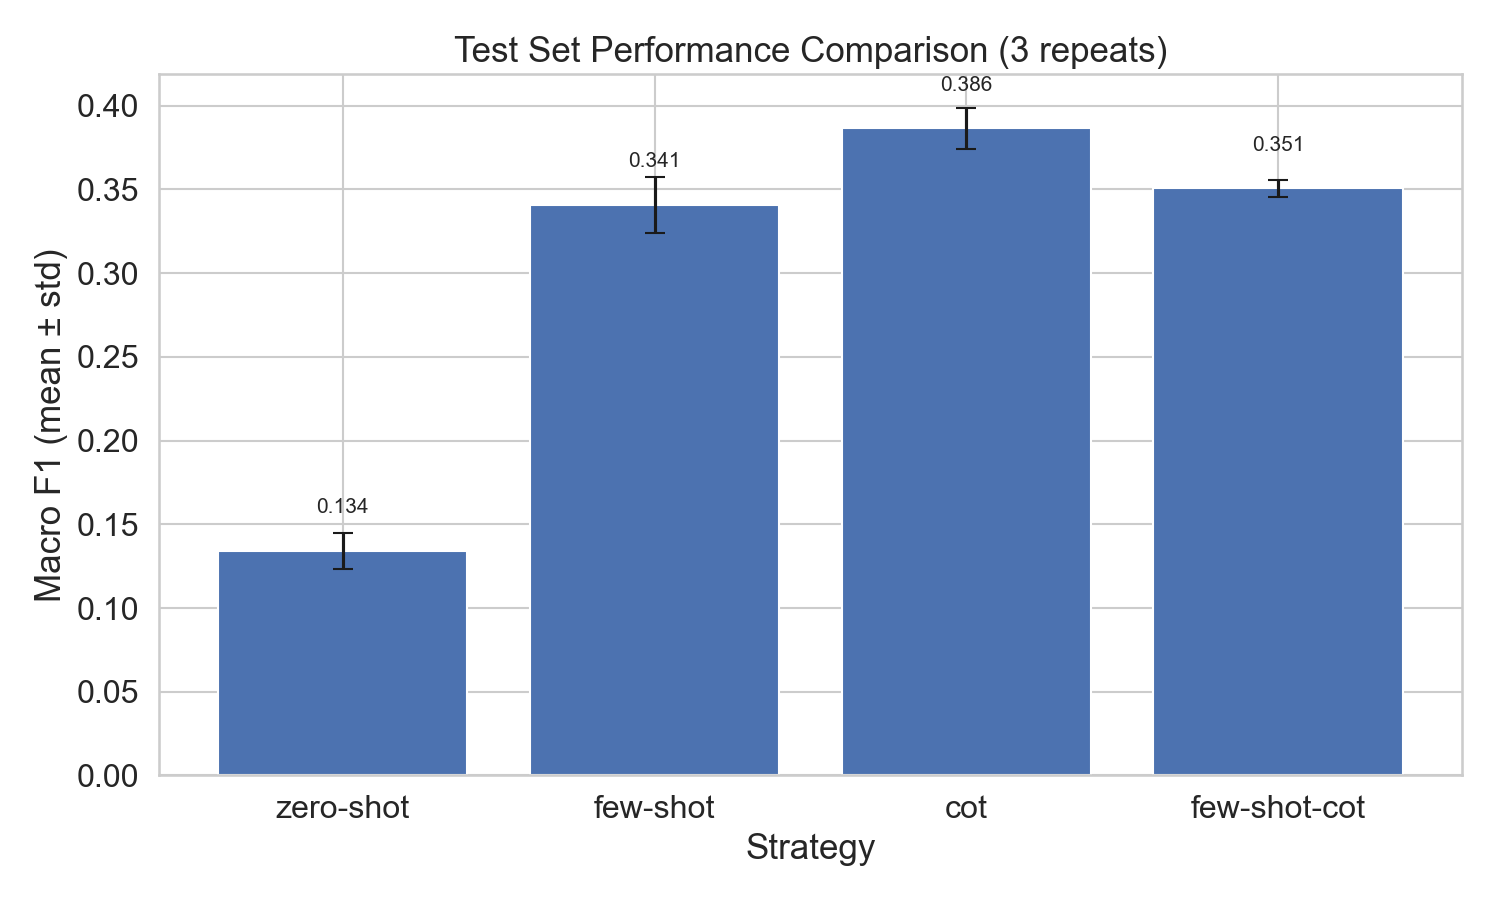
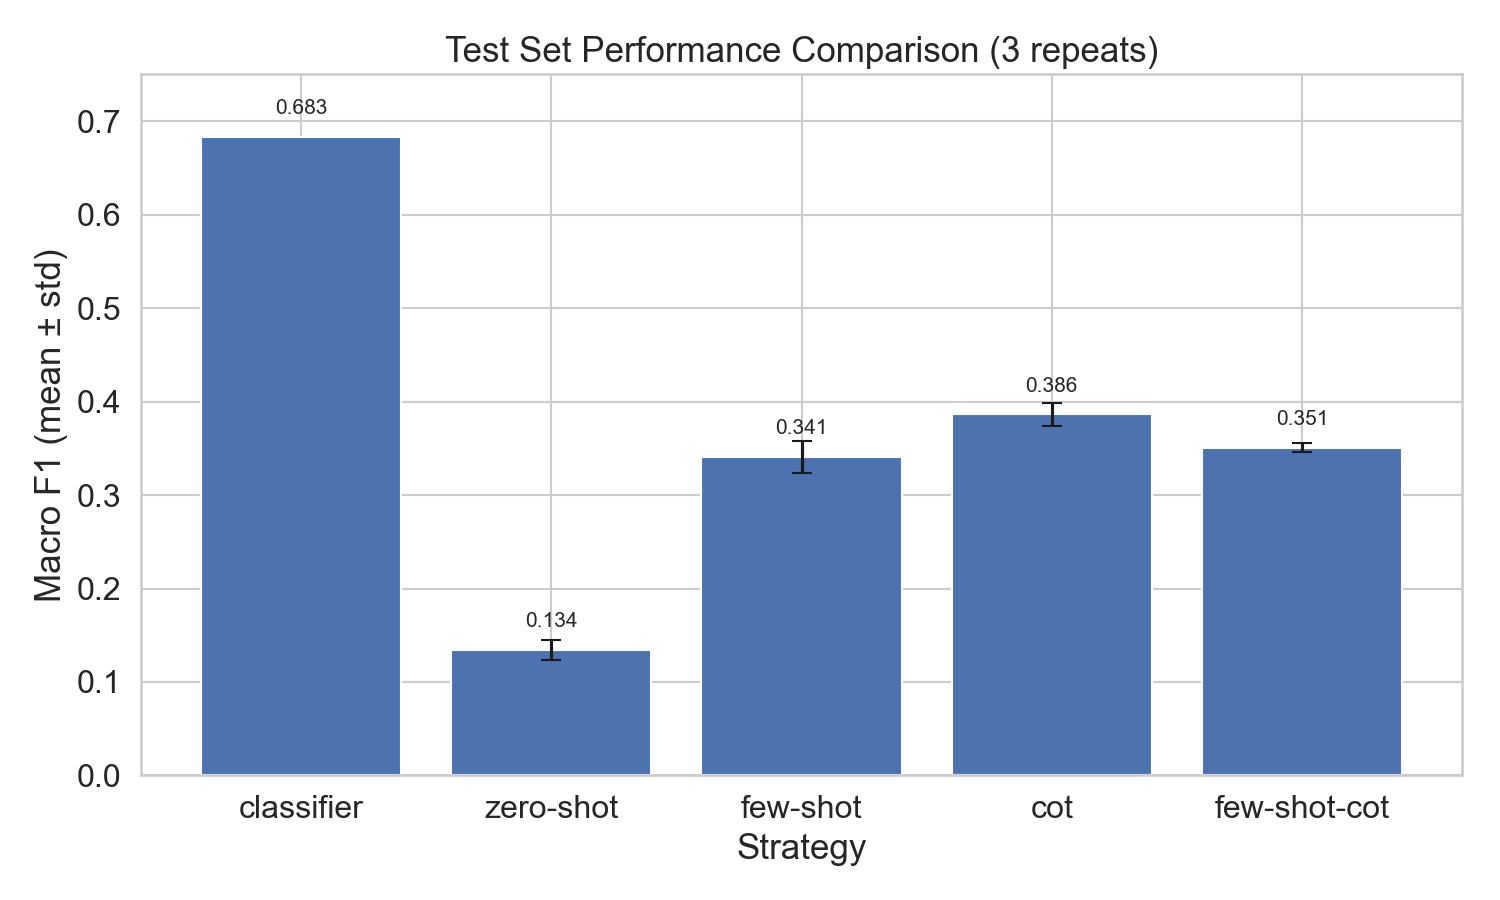
run cls again

diff --git a/nb_2_classifier.py b/nb_2_classifier.py
@@ -29,8 +29,8 @@ MODEL_NAME = "vinai/bertweet-large"
 BATCH_SIZE = 8
 LEARNING_RATE = 0.00004
 NUM_EPOCHS = 20
-WARMUP_RATIO = 0.2
-WEIGHT_DECAY = 0.03
+WARMUP_RATIO = 0.15
+WEIGHT_DECAY = 0.05
 EARLY_STOP_VAL_F1 = 0.68 # only stop early if the val macro-f1 is above this value
 EARLY_STOPPING_PATIENCE = 3
 
@@ -38,7 +38,7 @@ MAX_LENGTH = 256
 N_LABELS = len(LABEL2ID) # 4 SDQC
 
 LORA_TARGET_MODULES = ["query", "value"]
-LORA_ALPHA = 64
+LORA_ALPHA = 48
 LORA_R = 20
 LORA_DROPOUT = 0.1
 
